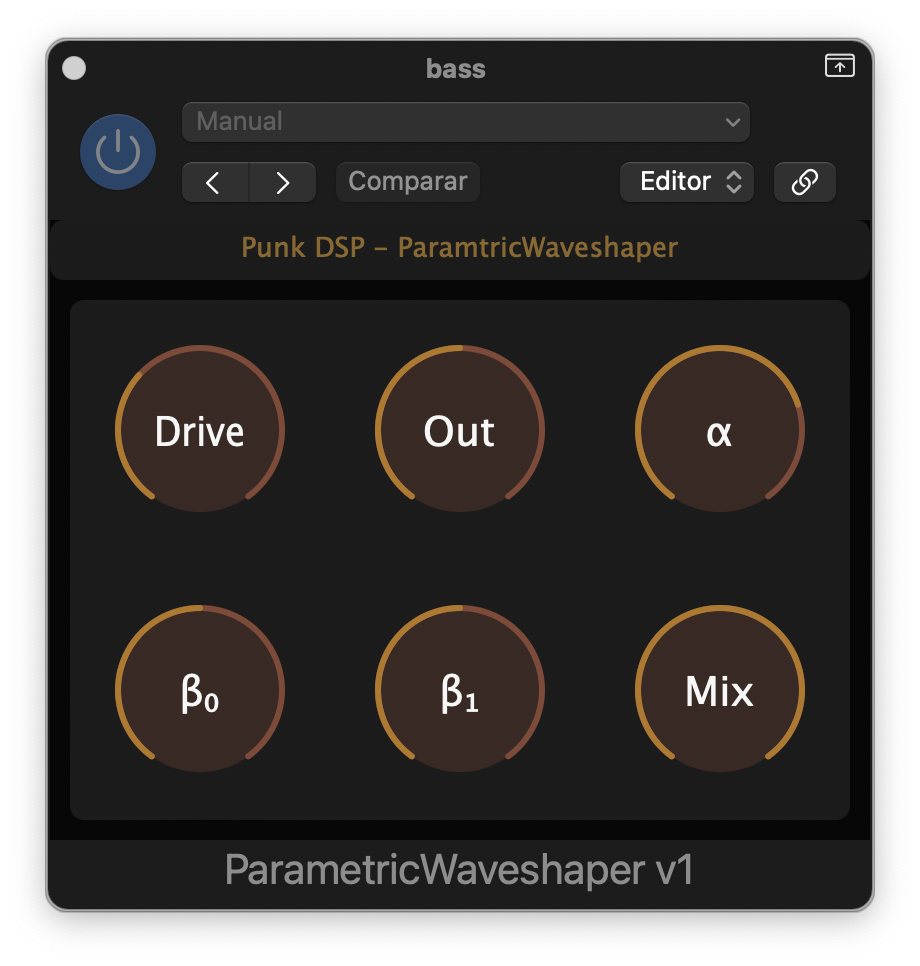
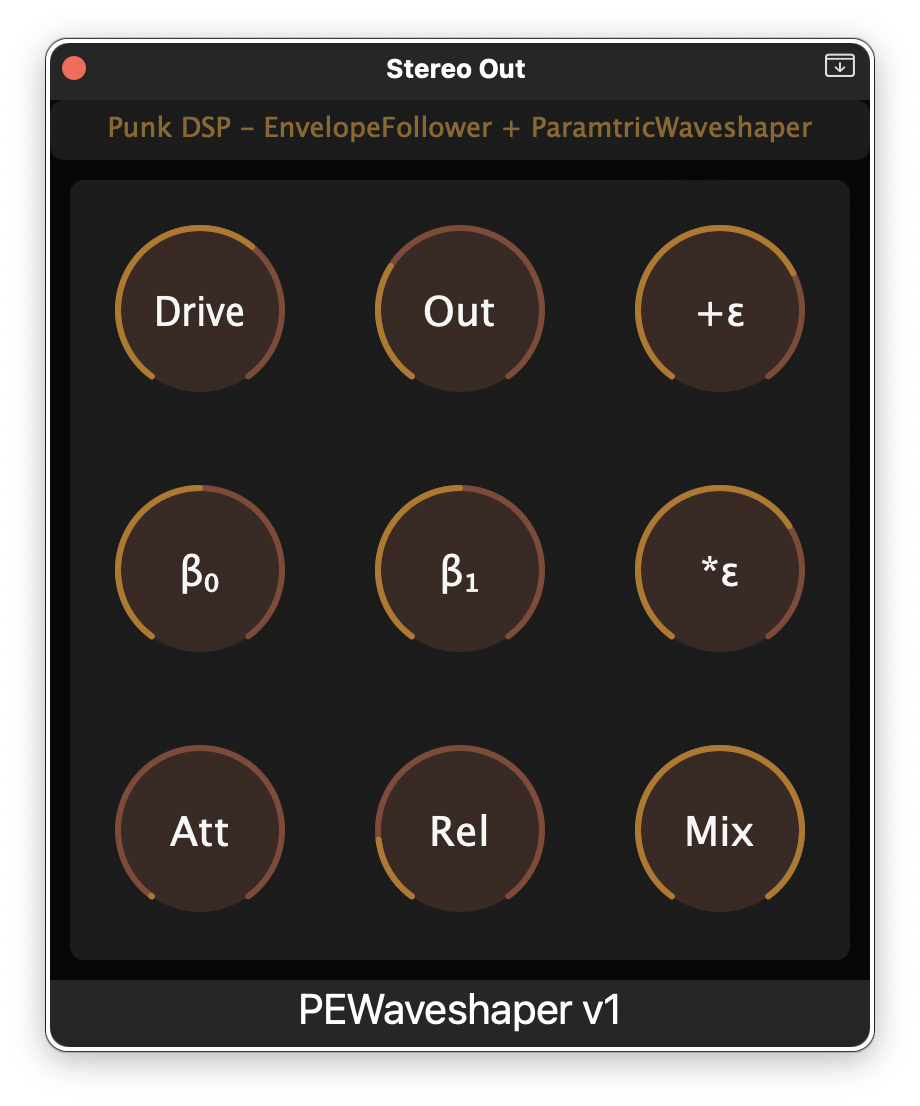
finished?

diff --git a/source/PluginEditor.cpp b/source/PluginEditor.cpp
@@ -64,24 +64,24 @@ PluginEditor::PluginEditor (EnvelParamWaveshaperProcessor& p)
     biasPostAttachment = std::make_unique<juce::AudioProcessorValueTreeState::SliderAttachment>(processorRef.apvts, Parameters::postBiasId, biasPostSlider);
     
     // Param Positive Limit
-    paramPosSlider.setSliderStyle(juce::Slider::RotaryHorizontalVerticalDrag);
-    paramPosSlider.setTextBoxStyle(juce::Slider::NoTextBox, false, 0, 0);
-    paramPosSlider.setRange(Parameters::paramPosMin, Parameters::paramPosMax, 0.1);
-    paramPosSlider.setValue(Parameters::paramPosDefault);
-    paramPosSlider.setName(u8"+α");
-    addAndMakeVisible(paramPosSlider);
+    envelAddSlider.setSliderStyle(juce::Slider::RotaryHorizontalVerticalDrag);
+    envelAddSlider.setTextBoxStyle(juce::Slider::NoTextBox, false, 0, 0);
+    envelAddSlider.setRange(Parameters::envelAddMin, Parameters::envelAddMax, 0.1);
+    envelAddSlider.setValue(Parameters::envelAddDefault);
+    envelAddSlider.setName(u8"+ε");
+    addAndMakeVisible(envelAddSlider);
     
-    paramPosAttachment = std::make_unique<juce::AudioProcessorValueTreeState::SliderAttachment>(processorRef.apvts, Parameters::paramPosId, paramPosSlider);
+    envelAddAttachment = std::make_unique<juce::AudioProcessorValueTreeState::SliderAttachment>(processorRef.apvts, Parameters::envelAddId, envelAddSlider);
     
     // Param Negative Limit
-    paramNegSlider.setSliderStyle(juce::Slider::RotaryHorizontalVerticalDrag);
-    paramNegSlider.setTextBoxStyle(juce::Slider::NoTextBox, false, 0, 0);
-    paramNegSlider.setRange(Parameters::paramNegMin, Parameters::paramNegMax, 0.1);
-    paramNegSlider.setValue(Parameters::paramNegDefault);
-    paramNegSlider.setName(u8"-α");
-    addAndMakeVisible(paramNegSlider);
+    envelMulSlider.setSliderStyle(juce::Slider::RotaryHorizontalVerticalDrag);
+    envelMulSlider.setTextBoxStyle(juce::Slider::NoTextBox, false, 0, 0);
+    envelMulSlider.setRange(Parameters::envelMulMin, Parameters::envelMulMax, 0.1);
+    envelMulSlider.setValue(Parameters::envelMulDefault);
+    envelMulSlider.setName(u8"*ε");
+    addAndMakeVisible(envelMulSlider);
     
-    paramNegAttachment = std::make_unique<juce::AudioProcessorValueTreeState::SliderAttachment>(processorRef.apvts, Parameters::paramNegId, paramNegSlider);
+    envelMulAttachment = std::make_unique<juce::AudioProcessorValueTreeState::SliderAttachment>(processorRef.apvts, Parameters::envelMulId, envelMulSlider);
 
     // Attack Time (ms)
     attackSlider.setSliderStyle(juce::Slider::RotaryHorizontalVerticalDrag);
@@ -160,7 +160,7 @@ void PluginEditor::resized()
     fb.items.add(juce::FlexItem(outGainSlider).withMinWidth(punk_dsp::UIConstants::knobSize)
                                               .withMinHeight(punk_dsp::UIConstants::knobSize)
                                               .withMargin(punk_dsp::UIConstants::margin));
-    fb.items.add(juce::FlexItem(paramPosSlider).withMinWidth(punk_dsp::UIConstants::knobSize)
+    fb.items.add(juce::FlexItem(envelAddSlider).withMinWidth(punk_dsp::UIConstants::knobSize)
                                                .withMinHeight(punk_dsp::UIConstants::knobSize)
                                                .withMargin(punk_dsp::UIConstants::margin));
 
@@ -170,7 +170,7 @@ void PluginEditor::resized()
     fb.items.add(juce::FlexItem(biasPostSlider).withMinWidth(punk_dsp::UIConstants::knobSize)
                                                .withMinHeight(punk_dsp::UIConstants::knobSize)
                                                .withMargin(punk_dsp::UIConstants::margin));
-    fb.items.add(juce::FlexItem(paramNegSlider).withMinWidth(punk_dsp::UIConstants::knobSize)
+    fb.items.add(juce::FlexItem(envelMulSlider).withMinWidth(punk_dsp::UIConstants::knobSize)
                                                .withMinHeight(punk_dsp::UIConstants::knobSize)
                                                .withMargin(punk_dsp::UIConstants::margin));
     

diff --git a/source/PluginProcessor.cpp b/source/PluginProcessor.cpp
@@ -144,18 +144,18 @@ juce::AudioProcessorValueTreeState::ParameterLayout EnvelParamWaveshaperProcesso
     
     // Parameter limits
     layout.add(std::make_unique<juce::AudioParameterFloat>(
-                                                           Parameters::paramPosId,
-                                                           Parameters::paramPosName,
-                                                           juce::NormalisableRange<float>(Parameters::paramPosMin, Parameters::paramPosMax, 0.01f),
-                                                           Parameters::paramPosDefault
+                                                           Parameters::envelAddId,
+                                                           Parameters::envelAddName,
+                                                           juce::NormalisableRange<float>(Parameters::envelAddMin, Parameters::envelAddMax, 0.01f),
+                                                           Parameters::envelAddDefault
                                                            )
                );
     
     layout.add(std::make_unique<juce::AudioParameterFloat>(
-                                                           Parameters::paramNegId,
-                                                           Parameters::paramNegName,
-                                                           juce::NormalisableRange<float>(Parameters::paramNegMin, Parameters::paramNegMax, 0.01f),
-                                                           Parameters::paramNegDefault
+                                                           Parameters::envelMulId,
+                                                           Parameters::envelMulName,
+                                                           juce::NormalisableRange<float>(Parameters::envelMulMin, Parameters::envelMulMax, 0.01f),
+                                                           Parameters::envelMulDefault
                                                            )
                );
     
@@ -183,8 +183,8 @@ void EnvelParamWaveshaperProcessor::updateParameters()
     ws.setBiasPre( apvts.getRawParameterValue(Parameters::preBiasId)->load() );
     ws.setBiasPost( apvts.getRawParameterValue(Parameters::postBiasId)->load() );
     
-    posLimit = apvts.getRawParameterValue(Parameters::paramPosId)->load();
-    negLimit = apvts.getRawParameterValue(Parameters::paramNegId)->load();
+    envelope_adder = apvts.getRawParameterValue(Parameters::envelAddId)->load();
+    envelope_multiplier = apvts.getRawParameterValue(Parameters::envelMulId)->load();
     
     ws.setMix( apvts.getRawParameterValue(Parameters::mixId)->load() );
 }
@@ -197,7 +197,6 @@ void EnvelParamWaveshaperProcessor::prepareToPlay (double sampleRate, int sample
     spec.sampleRate = sampleRate;
 
     ef.prepare(spec);
-    ef.setPeakDetection(false);
     
     updateParameters();
 }
@@ -252,9 +251,8 @@ void EnvelParamWaveshaperProcessor::processBlock (juce::AudioBuffer<float>& buff
         float* channelData = buffer.getWritePointer(ch);
         for (int sample = 0; sample < buffer.getNumSamples(); ++sample)
         {
-            ws.setParam( ef.updateAndReturnEnvelope(channelData[sample]) );
-            // ws.setParam( channelData[sample] );
-            // ws.setParam( juce::jmap(ef.getEnvelope(), negLimit, posLimit) );
+            float envelope = envelope_multiplier * ( ef.process(channelData[sample]) + envelope_adder );
+            ws.setParam(envelope);
             channelData[sample] = ws.processSample(channelData[sample]);
         }
     }

diff --git a/source/PluginProcessor.h b/source/PluginProcessor.h
@@ -33,28 +33,28 @@ namespace Parameters
     constexpr auto biasMax = 1.0f;
 
     // Param limits
-    constexpr auto paramNegId = "paramNeg";
-    constexpr auto paramNegName = "ParamNeg";
-    constexpr auto paramNegDefault = -1.f;
-    constexpr auto paramNegMin = -2.0f;
-    constexpr auto paramNegMax = 0.0f;
+    constexpr auto envelAddId = "envel_add";
+    constexpr auto envelAddName = "EnvelAdd";
+    constexpr auto envelAddDefault = 0.2f;
+    constexpr auto envelAddMin = 0.0f;
+    constexpr auto envelAddMax = 1.0f;
 
-    constexpr auto paramPosId = "paramPos";
-    constexpr auto paramPosName = "ParamPos";
-    constexpr auto paramPosDefault = 1.f;
-    constexpr auto paramPosMin = 0.0f;
-    constexpr auto paramPosMax = 2.0f;
+    constexpr auto envelMulId = "envel_mul";
+    constexpr auto envelMulName = "EnvelMul";
+    constexpr auto envelMulDefault = 1.f;
+    constexpr auto envelMulMin = 0.0f;
+    constexpr auto envelMulMax = 2.0f;
 
     // Time variables
     constexpr auto attackId = "attack";
     constexpr auto attackName = "Attack";
-    constexpr auto attackDefault = 10.f;
+    constexpr auto attackDefault = 0.8f;
     constexpr auto attackMin = 0.1f;
     constexpr auto attackMax = 300.0f;
 
     constexpr auto releaseId = "release";
     constexpr auto releaseName = "Release";
-    constexpr auto releaseDefault = 30.f;
+    constexpr auto releaseDefault = 50.f;
     constexpr auto releaseMin = 1.0f;
     constexpr auto releaseMax = 300.0f;
 
@@ -110,9 +110,8 @@ private:
     punk_dsp::ParametricWaveshaper ws;
     punk_dsp::EnvelopeFollower ef;
 
-    // TODO: Is this necessary ?? -> Delete??
-    float posLimit = Parameters::paramPosDefault;
-    float negLimit = Parameters::paramNegDefault;
+    float envelope_multiplier   { 1.5f };
+    float envelope_adder        { 0.0f };
     
     // =============================================================================
     JUCE_DECLARE_NON_COPYABLE_WITH_LEAK_DETECTOR (EnvelParamWaveshaperProcessor)

diff --git a/source/PluginEditor.h b/source/PluginEditor.h
@@ -25,10 +25,10 @@ private:
     juce::TextButton header, params;
     
     // Sliders - Rotary knobs
-    juce::Slider driveSlider, outGainSlider, biasPreSlider, biasPostSlider, paramPosSlider, paramNegSlider, attackSlider, releaseSlider, mixSlider;
+    juce::Slider driveSlider, outGainSlider, biasPreSlider, biasPostSlider, envelAddSlider, envelMulSlider, attackSlider, releaseSlider, mixSlider;
     
     // Attachments for linking sliders-parameters
-    std::unique_ptr<juce::AudioProcessorValueTreeState::SliderAttachment> driveAttachment, outGainAttachment, biasPreAttachment, biasPostAttachment, paramPosAttachment, paramNegAttachment, attackAttachment, releaseAttachment, mixAttachment;
+    std::unique_ptr<juce::AudioProcessorValueTreeState::SliderAttachment> driveAttachment, outGainAttachment, biasPreAttachment, biasPostAttachment, envelAddAttachment, envelMulAttachment, attackAttachment, releaseAttachment, mixAttachment;
     
     JUCE_DECLARE_NON_COPYABLE_WITH_LEAK_DETECTOR (PluginEditor)
 };

diff --git a/README.md b/README.md
@@ -1,10 +1,9 @@
 # PEWaveshaper
+[![PEWaveshaper](https://github.com/gmoican/PEWaveshaper/actions/workflows/build.yml/badge.svg)](https://github.com/gmoican/PEWaveshaper/actions/workflows/build.yml)
 
 This is a VST3/AU waveshaper plugin made with [JUCE](https://juce.com/). The sole purpose of this plugin is to showcase and test the performance of my `ParametricWaveshaper` in conjunction with my `EnvelopeFollower` classes in [punk_dsp](https://github.com/gmoican/punk_dsp).
 
 Shoutout to [THM Studio](https://thmstudio.com/blog/how-i-made-a-guitar-amp-plugin/) for his blog post; I am mostly copying his work.
-
-[![PEWaveshaper](https://github.com/gmoican/PEWaveshaper/actions/workflows/build.yml/badge.svg)](https://github.com/gmoican/PEWaveshaper/actions/workflows/build.yml)
 
 ![DemoImage](docs/demo.png)
 
@@ -24,8 +23,8 @@ Check out the following picture to see the visual representation of how the `par
     - `outGain`: Output gain, intended to be used for compensating the volume difference.
     - `attack`: Adjust the attack time for the envelope follower.
     - `release`: Adjust the release time for the envelope follower.
-    - `posLimit`: Experimental...
-    - `negLimit`: Experimental...
+    - `envelope_add`: Addition applied to the envelope value.
+    - `envelope_mul`: Multiplier applied to the envelope value (after the addition).
     - `biasPre`: Bias introduced before applying `drive`, modifies the DC offset for asymmetric shaping.
     - `biasPost`: Bias introduced after applying `drive`, modifies the DC offset for asymmetric shaping.
     - `mix`: Blends the unprocessed and processed signals together.
